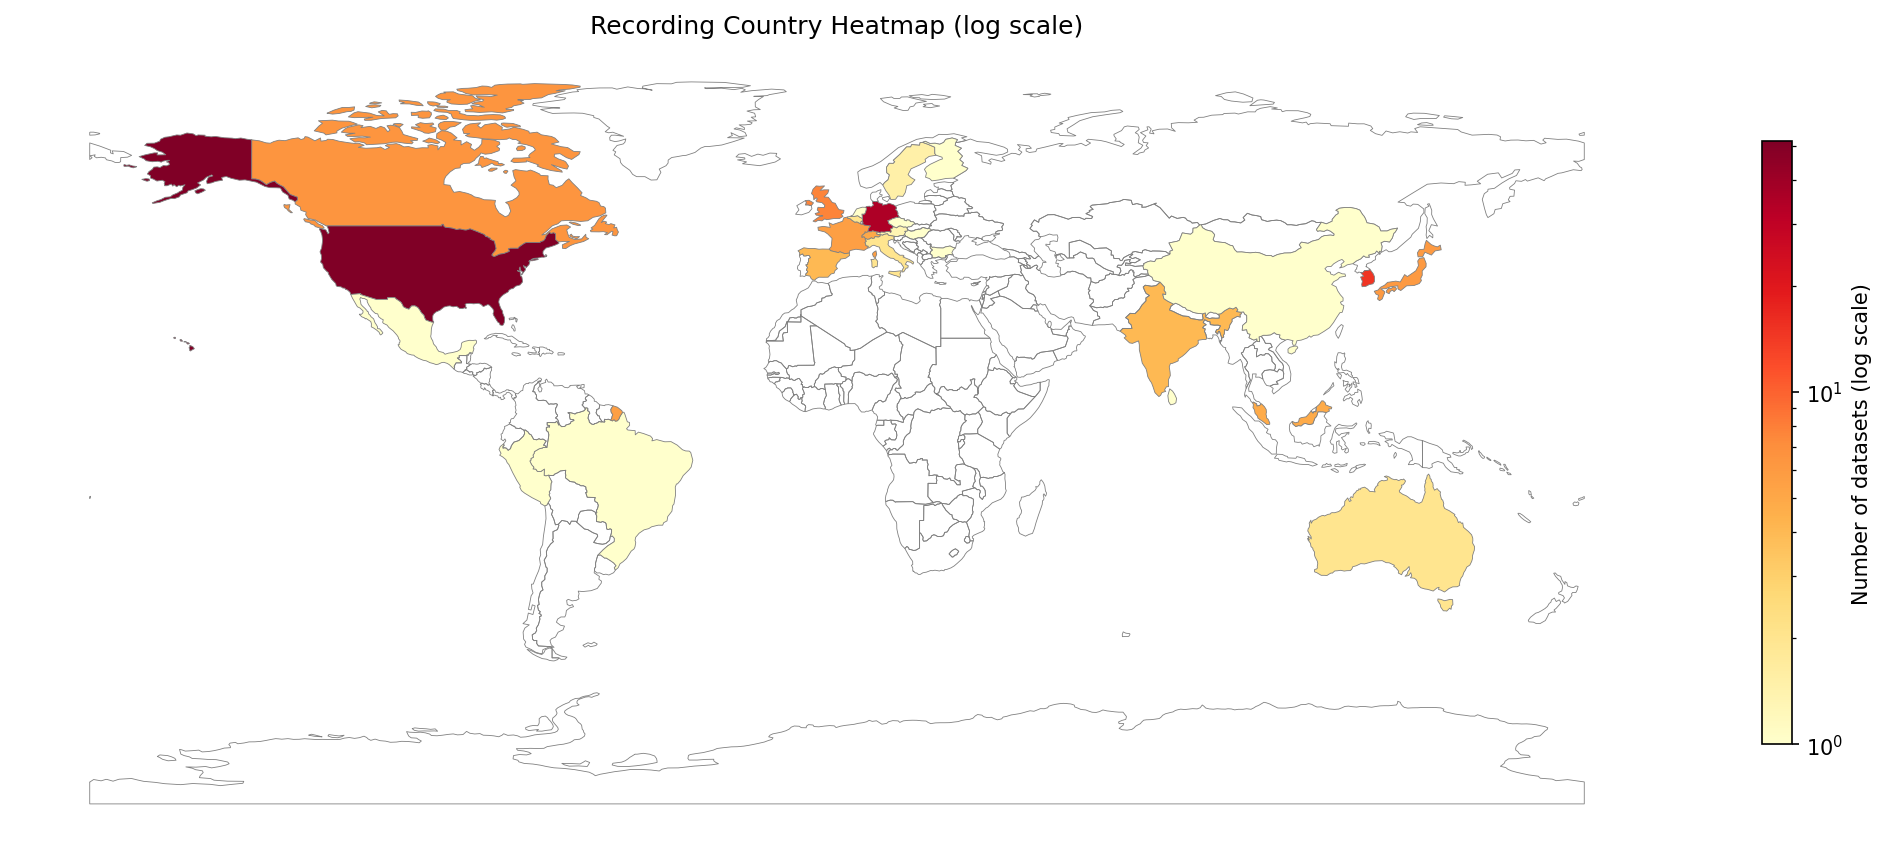
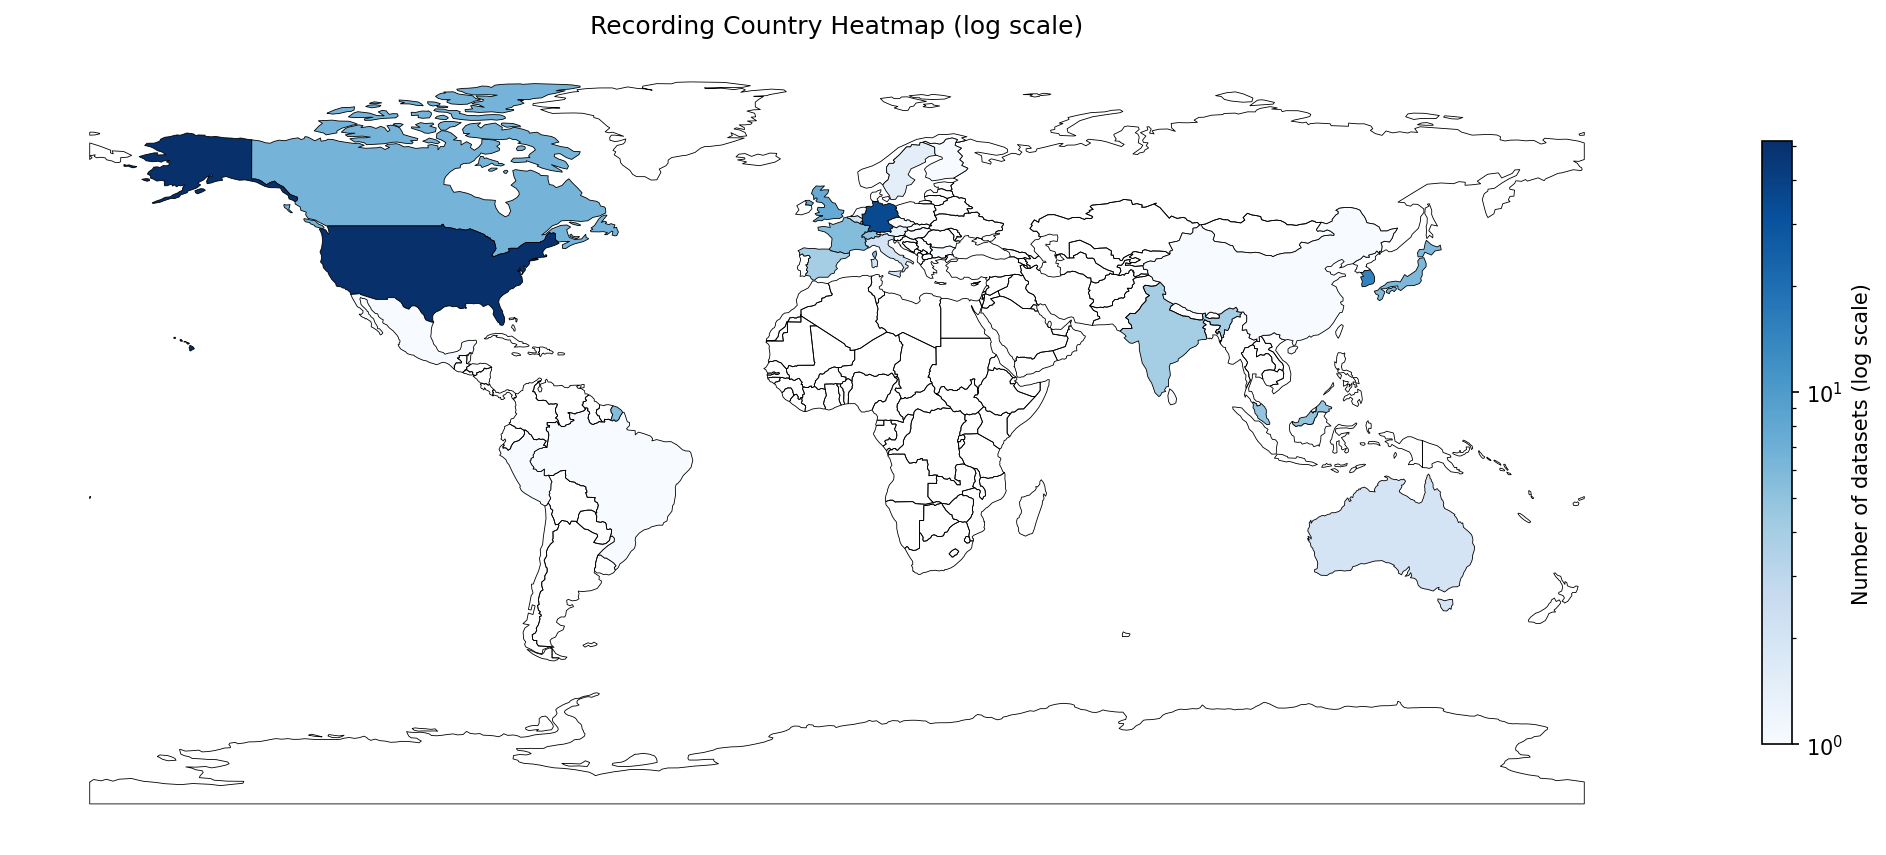
TUM Color 04

diff --git a/dataset/total_dataset_analysis/04a_recording_country_map.py b/dataset/total_dataset_analysis/04a_recording_country_map.py
@@ -2,17 +2,15 @@ import pandas as pd
 import matplotlib.pyplot as plt
 import matplotlib.colors as mcolors
 import geopandas as gpd
-import os
-import pyogrio
+import os, sys, pyogrio
 from collections import defaultdict
+sys.path.append(os.path.join(os.path.dirname(os.path.abspath(__file__)), '..'))
 
 BASE_DIR = os.path.dirname(os.path.abspath(__file__))
 df = pd.read_csv(os.path.join(BASE_DIR, 'dataset_cleaned.csv'))
 
-# ── Filter: Real only for recording map ──────────────────────────────────────
 df_map = df[df['Real / Synthetic / Mixed'] == 0].copy()
 
-# ── Cleaning rules ────────────────────────────────────────────────────────────
 REMOVE = {'Multiple', 'Europe', 'Mixed', 'Synthetic', 'Global'}
 REMAP  = {'North America': 'USA', 'UK': 'United Kingdom'}
 
@@ -20,7 +18,6 @@ def normalize(name):
     name = name.strip()
     return REMAP.get(name, name)
 
-# ── Equal split for multi-country entries ─────────────────────────────────────
 country_counts = defaultdict(float)
 for val in df_map['Recording Country'].dropna():
     parts = [normalize(p) for p in val.split(';')]
@@ -31,7 +28,6 @@ for val in df_map['Recording Country'].dropna():
     for country in parts:
         country_counts[country] += share
 
-# ── Map to shapefile names ────────────────────────────────────────────────────
 NAME_TO_SHP = {
     'USA':            'United States of America',
     'Czech Republic': 'Czechia',
@@ -42,21 +38,19 @@ NAME_TO_SHP = {
 def to_shp_name(name):
     return NAME_TO_SHP.get(name, name)
 
-# ── Load shapefile ────────────────────────────────────────────────────────────
 SHP = os.path.join(os.path.dirname(pyogrio.__file__), 'tests', 'fixtures', 'naturalearth_lowres', 'naturalearth_lowres.shp')
 world = gpd.read_file(SHP)
 world['count'] = world['name'].map(
     {to_shp_name(k): v for k, v in country_counts.items()}
 ).fillna(0)
 
-# ── Plot with LOG scale (change norm=mcolors.LogNorm(vmin=1) to remove for linear) ──
 fig, ax = plt.subplots(figsize=(14, 7))
-world.plot(column='count', ax=ax, cmap='YlOrRd',
-           linewidth=0.4, edgecolor='grey',
+world.plot(column='count', ax=ax, cmap='Blues',
+           linewidth=0.4, edgecolor='black',
            legend=True,
-           norm=mcolors.LogNorm(vmin=1, vmax=world['count'].max()),  # ← remove this line for linear scale
+           norm=mcolors.LogNorm(vmin=1, vmax=world['count'].max()),
            missing_kwds={'color': 'lightgrey'},
-           legend_kwds={'label': 'Number of datasets (log scale)', 'shrink': 0.6})  # ← change label for linear
+           legend_kwds={'label': 'Number of datasets (log scale)', 'shrink': 0.6})
 ax.set_title('Recording Country Heatmap (log scale)')
 ax.set_axis_off()
 

diff --git a/dataset/total_dataset_analysis/04b_recording_country_bar.py b/dataset/total_dataset_analysis/04b_recording_country_bar.py
@@ -1,12 +1,13 @@
 import pandas as pd
 import matplotlib.pyplot as plt
-import os
+import os, sys
 from collections import defaultdict
+sys.path.append(os.path.join(os.path.dirname(os.path.abspath(__file__)), '..'))
+from tum_colors import TUM_SECONDARY
 
 BASE_DIR = os.path.dirname(os.path.abspath(__file__))
 df = pd.read_csv(os.path.join(BASE_DIR, 'dataset_cleaned.csv'))
 
-# ── All datasets (Real + Synthetic + Mixed) for bar chart ────────────────────
 REMOVE = {'Multiple', 'Europe', 'Global'}
 REMAP  = {'North America': 'USA', 'UK': 'United Kingdom'}
 
@@ -24,12 +25,11 @@ for val in df['Recording Country'].dropna():
     for country in parts:
         country_counts[country] += share
 
-# ── Sort descending ───────────────────────────────────────────────────────────
 sorted_counts = sorted(country_counts.items(), key=lambda x: x[1], reverse=True)
 countries, values = zip(*sorted_counts)
 
 fig, ax = plt.subplots(figsize=(10, len(countries) * 0.35 + 1))
-ax.barh(list(reversed(countries)), list(reversed(values)), edgecolor='black')
+ax.barh(list(reversed(countries)), list(reversed(values)), color=TUM_SECONDARY['blue2'], edgecolor='black')
 ax.set_title('Number of Datasets per Recording Country')
 ax.set_xlabel('Number of Datasets')
 ax.grid(True)
